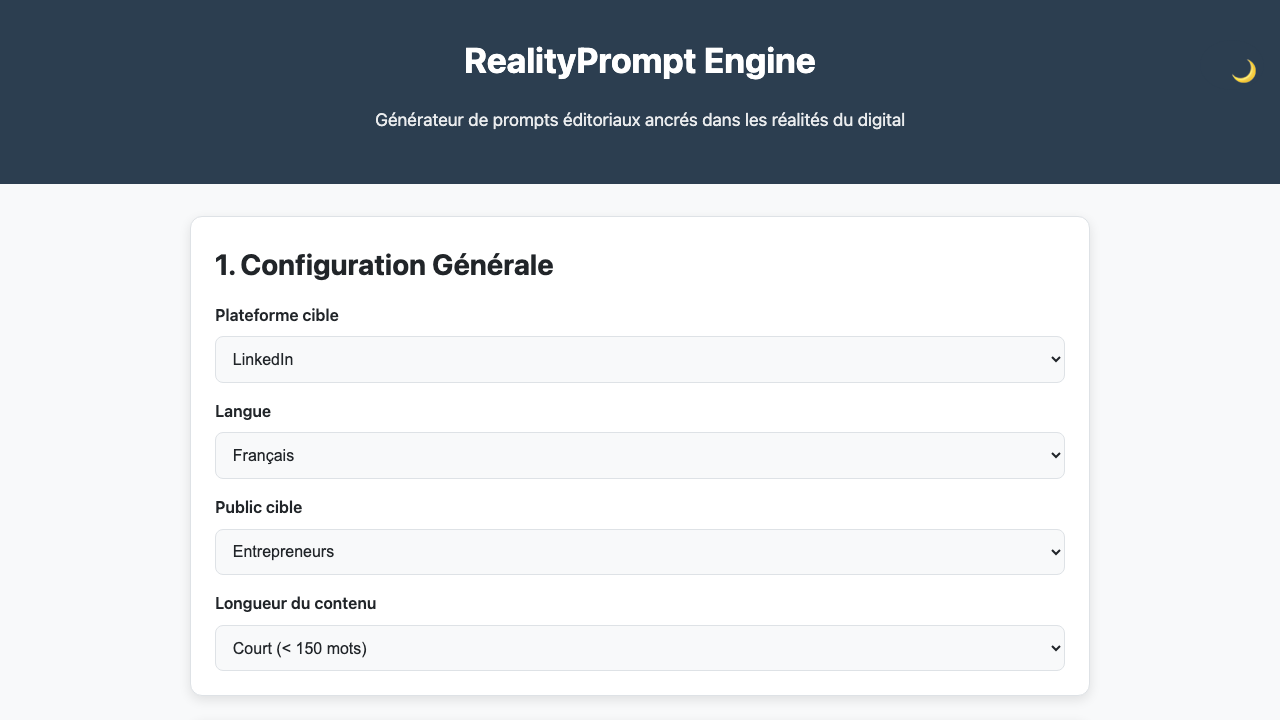
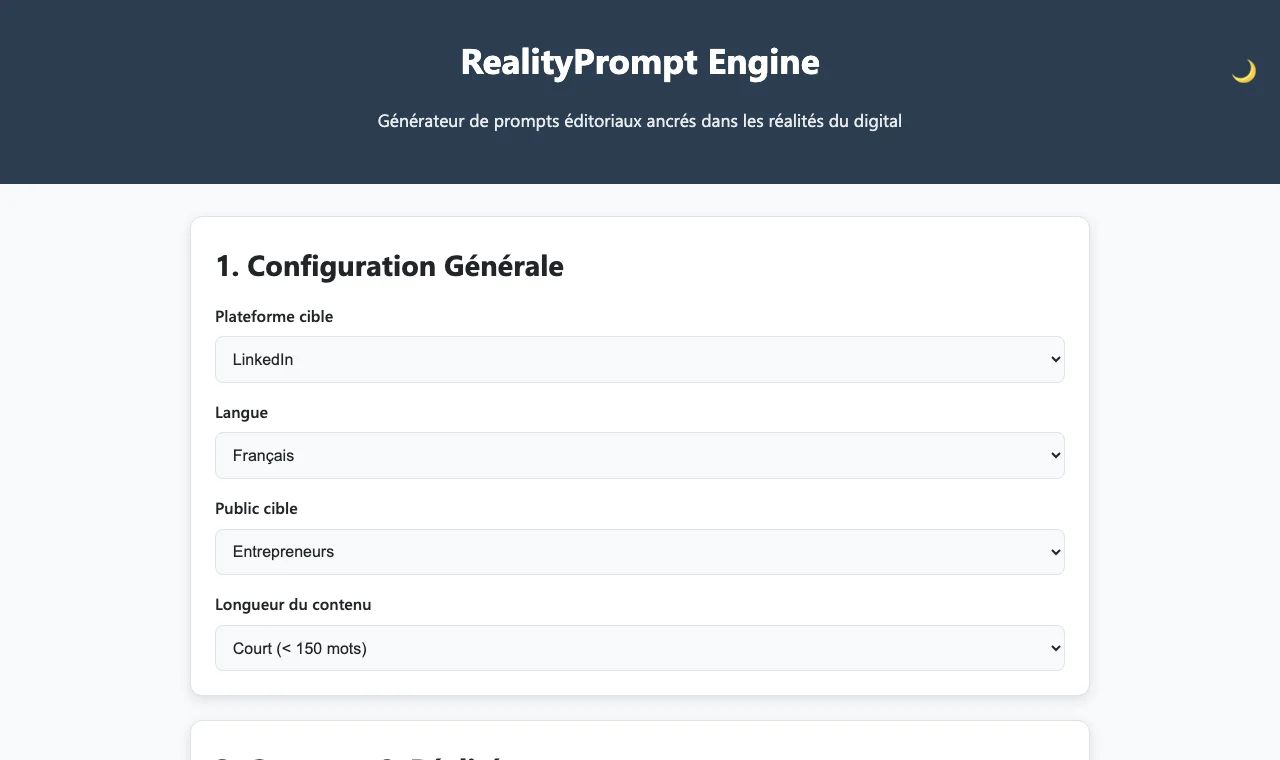
Projet Reality Prompt Engine -> React + IA (Gemini via serverless), capture live + liens

diff --git a/src/components/Projects.jsx b/src/components/Projects.jsx
@@ -13,7 +13,7 @@ export const fallbackProjects = [
   { id: 2, title: 'Bloom Event', description: "Plateforme de réservation d'événements au Bénin développée avec Laravel — base de données, réservations et back-end.", longDescription: "Migration d'un site vitrine statique vers une véritable plateforme de billetterie avec Laravel : architecture MVC, base de données relationnelle (événements, catégories, réservations avec vérification des places restantes), publication d'événement par les organisateurs, filtres, recherche et partage. Le rendu Bootstrap d'origine est conservé à l'identique. Déployé via Docker sur Render.", role: 'Conception & développement back-end', year: '2026', imageUrl: '/images/bloom-event.webp', category: 'Laravel', tech: ['Laravel', 'PHP', 'MySQL', 'Bootstrap', 'Blade'], github: 'https://github.com/JOJODEVS-GIT/bloom-event-laravel', live: 'https://bloom-event.onrender.com' },
   { id: 3, title: 'MODALLAS', description: "Site vitrine d'une agence de décoration événementielle au Bénin, migré en React.", longDescription: "Migration d'un site vitrine statique multi-pages vers une application React (Vite + React Router), en conservant le rendu et le design à l'identique. Toutes les interactions ont été portées en composants et hooks : galerie filtrable, carrousel de témoignages, timeline animée du processus, formulaire de devis (EmailJS), popup et bandeau cookies. Déployé sur Vercel.", role: 'Migration & développement front-end', year: '2026', imageUrl: '/images/modallas.webp', category: 'React', tech: ['React', 'Vite', 'React Router', 'Bootstrap'], github: 'https://github.com/JOJODEVS-GIT/MODALLAS', live: 'https://modallas.vercel.app' },
   { id: 4, title: 'Afro Flash Bénin', description: "Média d'actualités du Bénin développé avec Laravel — base de données, rubriques et back-end.", longDescription: "Refonte complète d'un site vitrine statique en un véritable média en ligne avec Laravel : architecture MVC, base de données relationnelle (Eloquent), gestion des articles par rubriques, bandeau « dernière minute », recherche, pages article détaillées (auteur, temps de lecture, tags, partage réseaux) et formulaires contact/newsletter enregistrés en base. Déployé via Docker sur Render.", role: 'Conception & développement back-end', year: '2026', imageUrl: '/images/afro-flash-benin.webp', category: 'Laravel', tech: ['Laravel', 'PHP', 'MySQL', 'Blade', 'Tailwind'], github: 'https://github.com/JOJODEVS-GIT/afro-flash-benin', live: 'https://afro-flash-benin.onrender.com' },
-  { id: 5, title: 'Reality Prompt Engine', description: 'Générateur de prompts IA avec interface intuitive et configuration avancée.', longDescription: "Outil de génération de prompts IA avec une interface intuitive et des options de configuration avancées. Pensé pour accélérer le travail des créateurs de contenu et des développeurs.", role: 'Conception & développement', year: '2024', imageUrl: '/images/reality-prompt.webp', category: 'HTML/CSS/JS', tech: ['HTML', 'CSS', 'JavaScript'], github: 'https://github.com/JOJODEVS-GIT/REALITY-PROMPT-ENGINE', live: 'https://jojodevs-git.github.io/REALITY-PROMPT-ENGINE/' },
+  { id: 5, title: 'Reality Prompt Engine', description: 'Générateur de prompts éditoriaux avec génération de contenu par IA (Google Gemini).', longDescription: "Migration d'un outil statique vers une application React, enrichie d'une véritable intégration IA. À partir d'une configuration (plateforme, public, thème, ton…), l'app construit un prompt structuré puis génère réellement le post via l'API Google Gemini, appelée par une fonction serverless qui garde la clé côté serveur. Mode clair/sombre et copie en un clic conservés.", role: 'Développement & intégration IA', year: '2026', imageUrl: '/images/reality-prompt.webp', category: 'React', tech: ['React', 'Vite', 'Serverless', 'Google Gemini'], github: 'https://github.com/JOJODEVS-GIT/REALITY-PROMPT-ENGINE', live: 'https://reality-prompt-engine.vercel.app' },
   { id: 6, title: 'Mon Produit', description: 'Dashboard de gestion de produits avec statistiques, ROI et suivi des bénéfices.', longDescription: "Tableau de bord de gestion de produits avec statistiques, calcul de ROI et suivi des bénéfices. Un outil concret pour piloter une activité au quotidien.", role: 'Développement front-end', year: '2024', imageUrl: '/images/mon-produit.webp', category: 'HTML/CSS/JS', tech: ['HTML', 'CSS', 'JavaScript'], github: 'https://github.com/JOJODEVS-GIT/MON-PRODUIT', live: 'https://jojodevs-git.github.io/MON-PRODUIT/' },
   { id: 7, title: 'QCM JavaScript', description: 'Quiz interactif JavaScript — 70 questions, 7 thèmes, timer 20s par question.', longDescription: "Quiz interactif pour s'entraîner en JavaScript : 70 questions réparties en 7 thèmes, timer de 20s par question et statistiques de résultats. Ludique et pédagogique.", role: 'Conception & développement', year: '2024', imageUrl: '/images/qcm-javascript.webp', category: 'HTML/CSS/JS', tech: ['HTML', 'CSS', 'JavaScript'], github: 'https://github.com/JOJODEVS-GIT/QCM-JAVASCRIPT', live: 'https://jojodevs-git.github.io/QCM-JAVASCRIPT/' },
   { id: 8, title: 'Suivi Chauffeur', description: 'Application de suivi de paiements chauffeurs en temps réel avec historique.', longDescription: "Application de suivi des paiements chauffeurs en temps réel, avec historique et vue d'ensemble. Conçue pour simplifier la gestion au jour le jour.", role: 'Développement front-end', year: '2024', imageUrl: '/images/suivi-chauffeur.webp', category: 'HTML/CSS/JS', tech: ['HTML', 'CSS', 'JavaScript'], github: 'https://github.com/JOJODEVS-GIT/SUIVI-CHAUFFEUR', live: 'https://jojodevs-git.github.io/SUIVI-CHAUFFEUR/' },

diff --git a/src/admin/Dashboard.jsx b/src/admin/Dashboard.jsx
@@ -70,7 +70,7 @@ const seedData = {
     { title: 'JOJO E-Commerce Mastery', description: 'Plateforme e-commerce complète avec panier, paiement et gestion produits.', gradient: 'from-[#16C79A] to-[#0F3460]', category: 'React', tech: ['TypeScript', 'React', 'Vite'], github: 'https://github.com/JOJODEVS-GIT/JOJO-ECOMMERCE-MASTERY', live: 'https://jojo-ecommerce-mastery.vercel.app', imageUrl: '/images/jojo-ecommerce.webp', order: 0 },
     { title: 'MODALLAS', description: "Site vitrine de décoration événementielle au Bénin, migré d'un site statique vers React (Vite + React Router).", category: 'React', tech: ['React', 'Vite', 'React Router', 'Bootstrap'], github: 'https://github.com/JOJODEVS-GIT/MODALLAS', live: 'https://modallas.vercel.app', imageUrl: '/images/modallas.webp', order: 1 },
     { title: 'Afro Flash Bénin', description: "Média d'actualités du Bénin développé avec Laravel — base de données, rubriques et back-end.", category: 'Laravel', tech: ['Laravel', 'PHP', 'MySQL', 'Blade', 'Tailwind'], github: 'https://github.com/JOJODEVS-GIT/afro-flash-benin', live: 'https://afro-flash-benin.onrender.com', imageUrl: '/images/afro-flash-benin.webp', order: 2 },
-    { title: 'Reality Prompt Engine', description: 'Générateur de prompts IA avec interface intuitive.', gradient: 'from-purple-600 to-[#0F3460]', category: 'HTML/CSS/JS', tech: ['HTML', 'CSS', 'JavaScript'], github: 'https://github.com/JOJODEVS-GIT/REALITY-PROMPT-ENGINE', live: 'https://reality-prompt-engine.vercel.app', imageUrl: '/images/reality-prompt.webp', order: 3 },
+    { title: 'Reality Prompt Engine', description: "Générateur de prompts éditoriaux avec génération de contenu par IA (Google Gemini), migré en React.", category: 'React', tech: ['React', 'Vite', 'Serverless', 'Google Gemini'], github: 'https://github.com/JOJODEVS-GIT/REALITY-PROMPT-ENGINE', live: 'https://reality-prompt-engine.vercel.app', imageUrl: '/images/reality-prompt.webp', order: 3 },
     { title: 'Mon Produit', description: 'Dashboard de gestion de produits avec statistiques et suivi.', gradient: 'from-[#0F3460] to-blue-800', category: 'HTML/CSS/JS', tech: ['HTML', 'CSS', 'JavaScript'], github: 'https://github.com/JOJODEVS-GIT/MON-PRODUIT', live: 'https://mon-produit.vercel.app', imageUrl: '/images/mon-produit.webp', order: 4 },
     { title: 'QCM JavaScript', description: 'Quiz interactif JavaScript — 60 questions, timer, stats par thème.', gradient: 'from-yellow-600 to-[#16C79A]', category: 'HTML/CSS/JS', tech: ['HTML', 'CSS', 'JavaScript'], github: 'https://github.com/JOJODEVS-GIT/QCM-JAVASCRIPT', live: 'https://qcm-javascript.vercel.app', imageUrl: '/images/qcm-javascript.webp', order: 5 },
     { title: 'Suivi Chauffeur', description: 'Application de suivi et gestion de chauffeurs en temps réel.', gradient: 'from-[#16C79A] to-teal-700', category: 'HTML/CSS/JS', tech: ['HTML', 'CSS', 'JavaScript'], github: 'https://github.com/JOJODEVS-GIT/SUIVI-CHAUFFEUR', live: 'https://suivi-chauffeur.vercel.app', imageUrl: '/images/suivi-chauffeur.webp', order: 6 },
